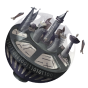
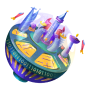
adding bar

diff --git a/src/js/project/control.js b/src/js/project/control.js
@@ -1,5 +1,6 @@
 const control = () => {
     const hintSection = document.querySelector('.hints');
+    const controlProgress = document.querySelector('.control__progress');
 
     if (document.querySelector('.control')) {
         if (hintSection) {
@@ -14,36 +15,52 @@ const control = () => {
                     nextMessage.addClass('is-active');
                 }, 600);
             });
+            $(".hints__message--2 .message__next").click(function () {
+                $('.page-focus').removeClass('page-focus--center');
+                $('.page-focus').addClass('hidden');
+                let elementClick = $(this).attr("href");
+                let destination = $(elementClick).offset().top;
+                if ($.browser.safari) {
+                    $('body').animate({ scrollTop: destination }, 1100); //1100 - скорость
+                } else {
+                    $('html').animate({ scrollTop: destination }, 1100);
+                }
+                return false; 
+            });
+        
+            $(".hints__message--3 .message__next").click(function () {
+                $('.page__border').removeClass('page__border--hidden');
+                $('.hints').addClass('hints--hidden');
+                $('.hints').addClass('hints--d-none');
+        
+                setTimeout(function() {
+                    $('.hints').removeClass('hints--hidden');
+                    $('.hints').removeClass('hints--d-none');
+                }, 200);
+            });
+        
+            $(".hints__message--4 .message__next").click(function () {
+                const controlBar = new SimpleBar(document.getElementById('pageContainerControl'));
+                controlBar.getScrollElement().scrollTop = 10
+            });
         }
-    
-        $(".hints__message--2 .message__next").click(function () {
-            $('.page-focus').removeClass('page-focus--center');
-            $('.page-focus').addClass('hidden');
-            let elementClick = $(this).attr("href");
-            let destination = $(elementClick).offset().top;
-            if ($.browser.safari) {
-                $('body').animate({ scrollTop: destination }, 1100); //1100 - скорость
-            } else {
-                $('html').animate({ scrollTop: destination }, 1100);
+            
+        if(controlProgress) {
+            function activatePlanets(planetCount) {
+                $('.control__progress ul li').each(function(index, item) {
+                    if (Number(planetCount) >= (index + 1)) {
+                        item.classList.add('active');
+                    }
+                })
             }
-            return false; 
-        });
-    
-        $(".hints__message--3 .message__next").click(function () {
-            $('.page__border').removeClass('page__border--hidden');
-            $('.hints').addClass('hints--hidden');
-            $('.hints').addClass('hints--d-none');
-    
-            setTimeout(function() {
-                $('.hints').removeClass('hints--hidden');
-                $('.hints').removeClass('hints--d-none');
-            }, 200);
-        });
-    
-        $(".hints__message--4 .message__next").click(function () {
-            const controlBar = new SimpleBar(document.getElementById('pageContainerControl'));
-            controlBar.getScrollElement().scrollTop = 10
-        });
+
+            function barWidth(level) {
+                $('.control__progress-bar-active').width(`${16.75 * level}%`)
+            }
+
+            barWidth(controlProgress.getAttribute('data-level'));
+            activatePlanets(controlProgress.getAttribute('data-level'));
+        }
     }
 }
 

diff --git a/src/scss/pages/control.scss b/src/scss/pages/control.scss
@@ -80,6 +80,7 @@
                     }
                     h3 { color: #2E0D6F }
                 }
+                
                 picture {
                     max-width: 97px;
                     max-height: 97px;
@@ -89,6 +90,7 @@
                     img {
                         width: auto;
                         height: auto;
+                        filter: saturate(.3) brightness(80%);
 
                         margin: auto;
                     }
@@ -124,7 +126,7 @@
             }
 
             span {
-                width: 202px;
+                width: 17%;
                 height: 16px;
 
                 position: absolute;

diff --git a/src/js/app.js b/src/js/app.js
@@ -11,10 +11,10 @@ let app = {
         preloader();
         about();
         buttons();
+        profileHints();
         planets();
         control();
         faq();
-        profileHints();
     }
 };
 app.init();
